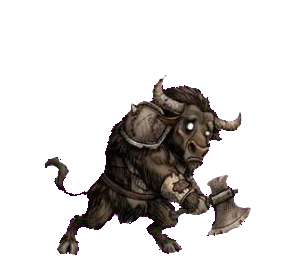
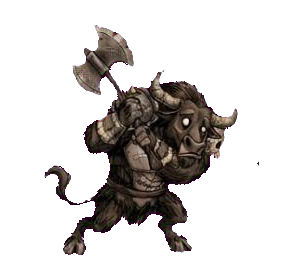
Expand Minotaur attack to six frames

Changed region(s): [[0.15, 0.2667, 0.84, 0.9481], [0.24, 0.0889, 0.45, 0.3556]]

diff --git a/test_v2_motion.js b/test_v2_motion.js
@@ -45,6 +45,7 @@ assert(practiceSource.includes('root: "art/v2-style/animation-test-frames/ice-lo
 assert(practiceSource.includes('root: "art/v2-style/animation-test-frames/yeti/"'), "Yeti frame root is missing.");
 assert(practiceSource.includes('root: "art/v2-style/animation-test-frames/ghoul/"'), "Ghoul frame root is missing.");
 assert(practiceSource.includes('root: "art/v2-style/animation-test-frames/minotaur/"'), "Minotaur frame root is missing.");
+assert(practiceSource.includes('"minotaur": { name: "미노타우로스", root: "art/v2-style/animation-test-frames/minotaur/", counts: { attack: 6, hit: 4, death: 6 } }'), "Minotaur frame counts are incorrect.");
 assert(practiceSource.includes("counts: { attack: 6, hit: 4, death: 7 }"), "Yeti frame counts are incorrect.");
 assert(practiceSource.includes("counts: { attack: 5, hit: 4, death: 6 }"), "Death Knight frame counts are incorrect.");
 assert(practiceSource.includes("counts: { attack: 5, hit: 4, death: 5 }"), "Skeleton Spearman frame counts are incorrect.");
@@ -72,12 +73,14 @@ for (const [motion, count] of Object.entries({ attack: 5, hit: 4, death: 6 })) {
     assert(fs.existsSync(path.join(root, relative)), `Ghoul frame is missing: ${relative}`);
   }
 }
-for (const [motion, count] of Object.entries({ attack: 5, hit: 4, death: 6 })) {
+for (const [motion, count] of Object.entries({ attack: 6, hit: 4, death: 6 })) {
   for (let index = 1; index <= count; index += 1) {
     const relative = `art/v2-style/animation-test-frames/minotaur/${motion}-${String(index).padStart(2, "0")}.png`;
     assert(fs.existsSync(path.join(root, relative)), `Minotaur frame is missing: ${relative}`);
   }
 }
+const minotaurAttackStart = fs.readFileSync(path.join(root, "art/v2-style/animation-test-frames/minotaur/attack-01.png"));
+assert(minotaurAttackStart.equals(fs.readFileSync(path.join(root, "art/v2-style/animation-test-frames/minotaur/attack-06.png"))), "Minotaur attack frame 1 must duplicate the original final pose.");
 assert(!fs.existsSync(path.join(root, "art/v2-style/animation-test-frames/boulder-ogre/death-06.png")), "Boulder Ogre death frame 6 must not be used.");
 assert(practiceSource.includes('(index === 1 || index === 2) ? 1.1'), "Death Knight attack frames 2 and 3 must be enlarged to 1.1x.");
 assert(practiceSource.includes('index === 1 ? 1.3'), "Boulder Ogre attack frame 2 must remain enlarged to 1.3x.");
@@ -157,7 +160,7 @@ assert(fs.existsSync(path.join(root, "art/v2-style/animation-sheets/green-raw/ic
 assert(fs.existsSync(path.join(root, "art/v2-style/animation-sheets/green-raw/yeti-animation-sheet.jpg")), "New raw Yeti sheet is missing.");
 assert(fs.existsSync(path.join(root, "art/v2-style/animation-sheets/green-raw/ghoul-animation-sheet.jpg")), "New raw Ghoul sheet is missing.");
 assert(fs.existsSync(path.join(root, "art/v2-style/animation-sheets/green-raw/minotaur-animation-sheet.jpg")), "New raw Minotaur sheet is missing.");
-assert(serviceWorker.includes("necromancer-expedition-v88"), "Service worker cache version was not bumped.");
+assert(serviceWorker.includes("necromancer-expedition-v89"), "Service worker cache version was not bumped.");
 assert(!serviceWorker.includes("animation-sheets/uploaded-raw"), "Deleted legacy animation sheets remain in offline cache.");
 assert(!serviceWorker.includes("animation-test-crops"), "Deleted comparison crops remain in offline cache.");
 for (const match of serviceWorker.matchAll(/^\s*"(\.\/[^"?]+)(?:\?[^\"]*)?"[,]?$/gm)) {

diff --git a/service-worker.js b/service-worker.js
@@ -1,11 +1,11 @@
-const CACHE_NAME = "necromancer-expedition-v88";
+const CACHE_NAME = "necromancer-expedition-v89";
 const APP_SHELL = [
   "./",
   "./index.html",
   "./v2.html",
   "./v2-animation-practice.html",
   "./v2-animation-practice.css?v=5",
-  "./v2-animation-practice.js?v=23",
+  "./v2-animation-practice.js?v=24",
   "./v2-battle.css?v=7",
   "./v2-motion.js?v=5",
   "./v2-battle.js?v=11",
@@ -73,7 +73,7 @@ Object.entries({ attack: 5, hit: 4, death: 6 }).forEach(([motion, count]) => {
     APP_SHELL.push(`./art/v2-style/animation-test-frames/ghoul/${motion}-${String(index).padStart(2, "0")}.png`);
   }
 });
-Object.entries({ attack: 5, hit: 4, death: 6 }).forEach(([motion, count]) => {
+Object.entries({ attack: 6, hit: 4, death: 6 }).forEach(([motion, count]) => {
   for (let index = 1; index <= count; index += 1) {
     APP_SHELL.push(`./art/v2-style/animation-test-frames/minotaur/${motion}-${String(index).padStart(2, "0")}.png`);
   }

diff --git a/v2-animation-practice.js b/v2-animation-practice.js
@@ -17,7 +17,7 @@
     "ice-lord": { name: "얼음 군주", root: "art/v2-style/animation-test-frames/ice-lord/", counts: { attack: 5, hit: 4, death: 6 } },
     "yeti": { name: "설인", root: "art/v2-style/animation-test-frames/yeti/", counts: { attack: 6, hit: 4, death: 7 } },
     "ghoul": { name: "구울", root: "art/v2-style/animation-test-frames/ghoul/", counts: { attack: 5, hit: 4, death: 6 } },
-    "minotaur": { name: "미노타우로스", root: "art/v2-style/animation-test-frames/minotaur/", counts: { attack: 5, hit: 4, death: 6 } }
+    "minotaur": { name: "미노타우로스", root: "art/v2-style/animation-test-frames/minotaur/", counts: { attack: 6, hit: 4, death: 6 } }
   });
   const FRAME_MS = Object.freeze({ attack: 145, hit: 135, death: 175 });
   const MOTION_LABELS = Object.freeze({ attack: "공격", hit: "피격", death: "사망" });

diff --git a/v2-animation-practice.html b/v2-animation-practice.html
@@ -52,6 +52,6 @@
       <p>본게임에는 아직 적용하지 않은 유닛별 검수용 테스트입니다.</p>
     </section>
   </main>
-  <script src="v2-animation-practice.js?v=23"></script>
+  <script src="v2-animation-practice.js?v=24"></script>
 </body>
 </html>
